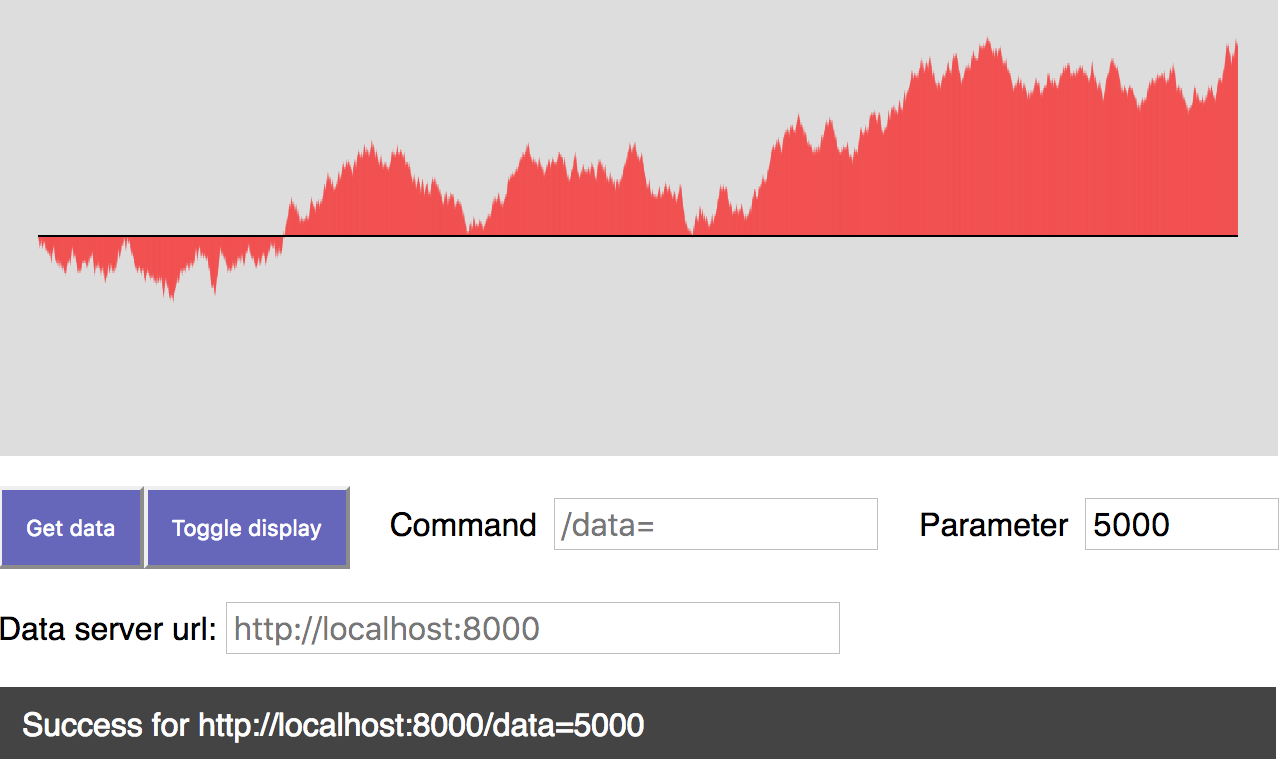
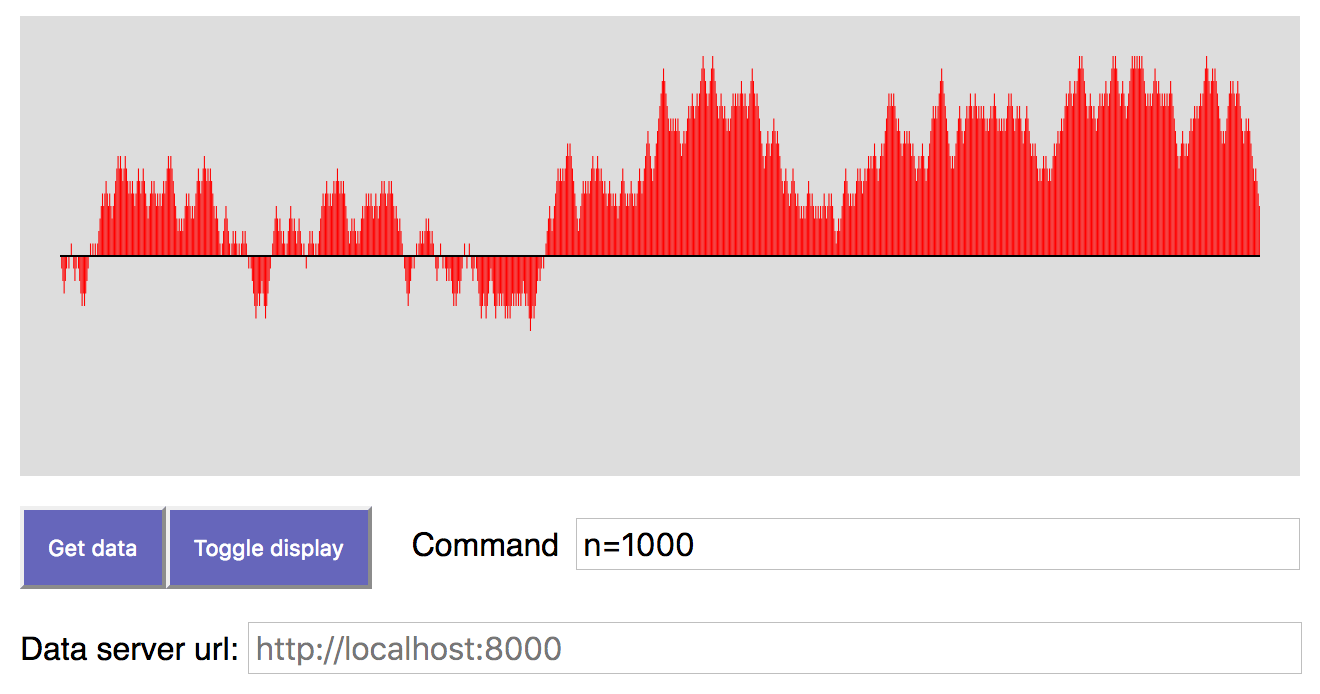
Refactor

diff --git a/src/dataVisualization/servers/dataServer.py b/src/dataVisualization/servers/dataServer.py
@@ -3,7 +3,7 @@
 """
 dataServer responds to the Request
 
-  http://localhost:8000/data=100
+  http://localhost:8000/n=1000
 
 with a list of integers generated by
 Brownian motion.  That is, one begins
@@ -13,6 +13,23 @@ repeatedly adds random elements of
 as a string, e.g.,
 
    "[0, 1, 2, 3, 2, 1, 0, -1, -2, -3, ... ]"
+
+System structure:
+
+The server gets data in do_GET via
+
+   `self.wfile.write(reply(self.path))`
+
+Thus all you have to do is define the
+function `reply` in module reply.
+This function accepts a string as argument
+and returns a stringified list as value.
+
+The string is a command which takes the
+form 'n=1000' in this example.  More
+generally, the command parser in module
+"reply" can parse commmands of the form
+'key1=value1&key2=value2&ETC'
 
 """
 
@@ -25,7 +42,7 @@ Very simple HTTP server in python.
 Usage::
     ./dataServer.py 8000
 Send a GET request::
-    curl http://localhost:8000/data=10
+    curl http://localhost:8000/n=1000
 Send a HEAD request::
     curl -I http://localhost:8000
 Send a POST request::
@@ -34,7 +51,7 @@ Send a POST request::
 from BaseHTTPServer import BaseHTTPRequestHandler, HTTPServer
 import SocketServer
 import os
-import random
+from reply import reply
 
 # Generate a series of n numbers
 # by adding random -1, +1 to an
@@ -56,14 +73,8 @@ class S(BaseHTTPRequestHandler):
         self.end_headers()
 
     def do_GET(self):
-        if self.path.find("/data=") == 0:
-            [prefix,arg] = self.path.split("=")
-            print "arg = " + arg
-            message = generate(int(arg), 0)
-        else:
-            message = "I don't understand"
         self._set_headers()
-        self.wfile.write(message)
+        self.wfile.write(reply(self.path))
 
     def do_HEAD(self):
         self._set_headers()

diff --git a/src/dataVisualization/servers/basicServer.py b/src/dataVisualization/servers/basicServer.py
@@ -1,5 +1,7 @@
 #!/usr/bin/env python
 """
+SOURCE: Source: https://gist.github.com/bradmontgomery/2219997
+
 Very simple HTTP server in python.
 
 To run, use
@@ -16,6 +18,7 @@ To test:
   Send a POST request::
     curl -d "foo=bar&bin=baz" http://localhost:8000
 """
+
 from BaseHTTPServer import BaseHTTPRequestHandler, HTTPServer
 import SocketServer
 

diff --git a/src/dataVisualization/servers/reply.py b/src/dataVisualization/servers/reply.py
@@ -1,0 +1,14 @@
+from generate import generate
+
+def parse(str):
+    parts = str.lstrip("/").split("&")
+    return dict(map(lambda x: x.split("="), parts))
+
+def reply(request):
+    arg = parse(request)
+    if 'n' in arg:
+      n = int(arg['n'])
+      data =  generate(0,n)
+      return str(data)
+    else:
+      return []

diff --git a/src/dataVisualization/servers/generate.py b/src/dataVisualization/servers/generate.py
@@ -1,0 +1,12 @@
+# File generate.py
+import random
+
+def generate(initial_value, n):
+    x = initial_value
+    k = 0
+    output = [x]
+    while k < n:
+        k = k + 1
+        x = x + 2*random.randint(0,1) - 1
+        output.append(x)
+    return output

diff --git a/src/dataVisualization/README.md b/src/dataVisualization/README.md
@@ -20,9 +20,11 @@ Directions:
 
 2. Return to the root of this folder and run `elm make src/TimeSeries.elm`. Then open `index.html`
 
-3. Click on `Get Data`
+3. Fill out the command field with 'n = 3000'
 
-When you did this, the request "/data=100" was sent
+4. Click on `Get Data`
+
+When you did this, the request "/n=3000" was sent
 to the server at http://localhost:8000. The server generated a sequence
 of 100 integers by doing a random walk: start with zero, then
 repeatedly add random elements of {+1, -1}.
